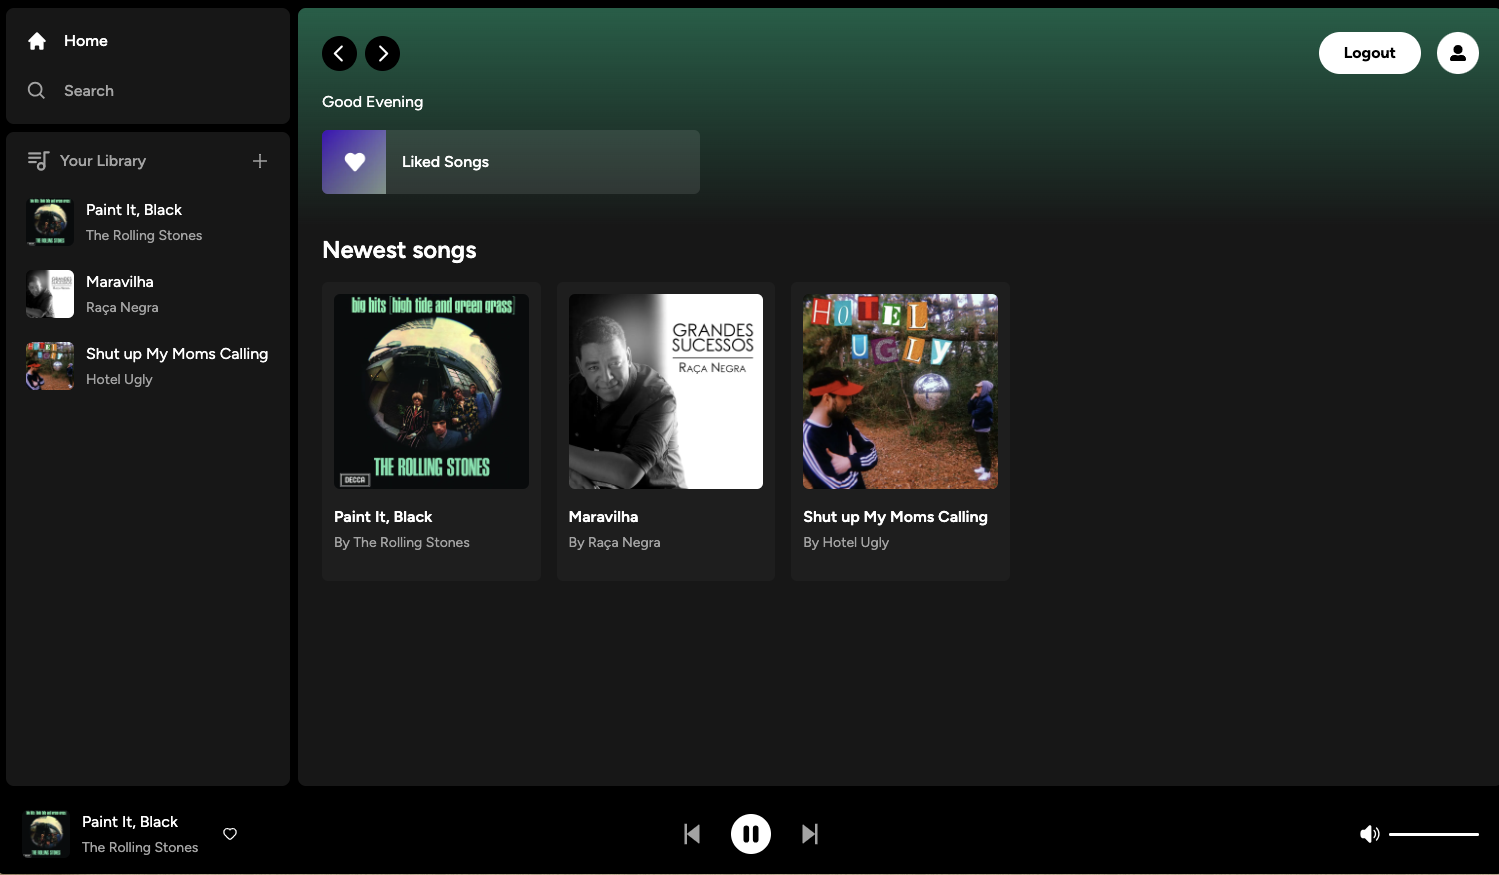
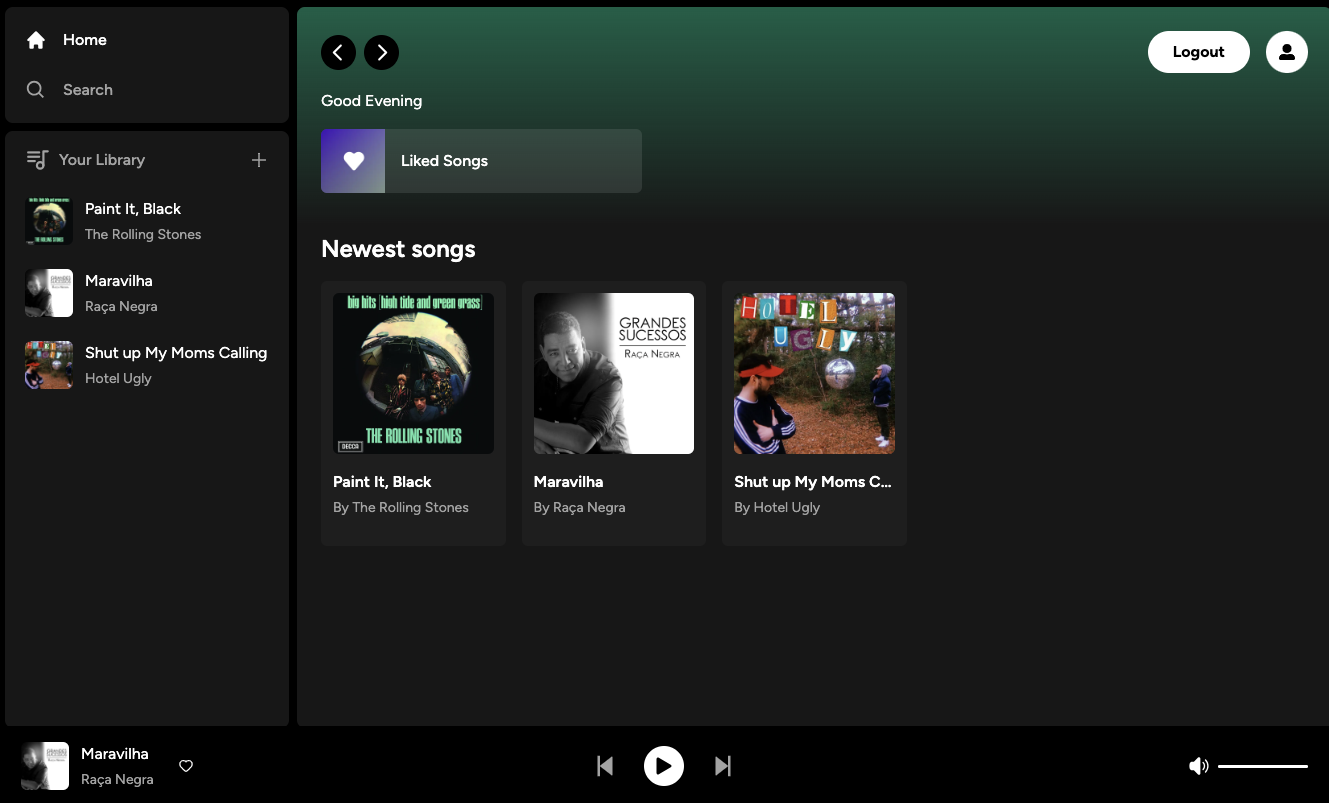
update screenshot and change sidebar height

diff --git a/components/Sidebar.tsx b/components/Sidebar.tsx
@@ -36,7 +36,7 @@ export function Sidebar({ children, songs }: SidebarProps) {
     ], [pathname])
 
     return (
-        <div className={twMerge("flex h-full", player.activeId && "h-[calc(100%-80px)]")}>
+        <div className={twMerge("flex h-full", player.activeId && "h-[calc(100%-70px)]")}>
             <div className="hidden md:flex flex-col gap-y-2 bg-black h-full w-[300px] p-2">
                 <Box>
                     <div className="flex flex-col gap-y-4 px-5 py-4">
